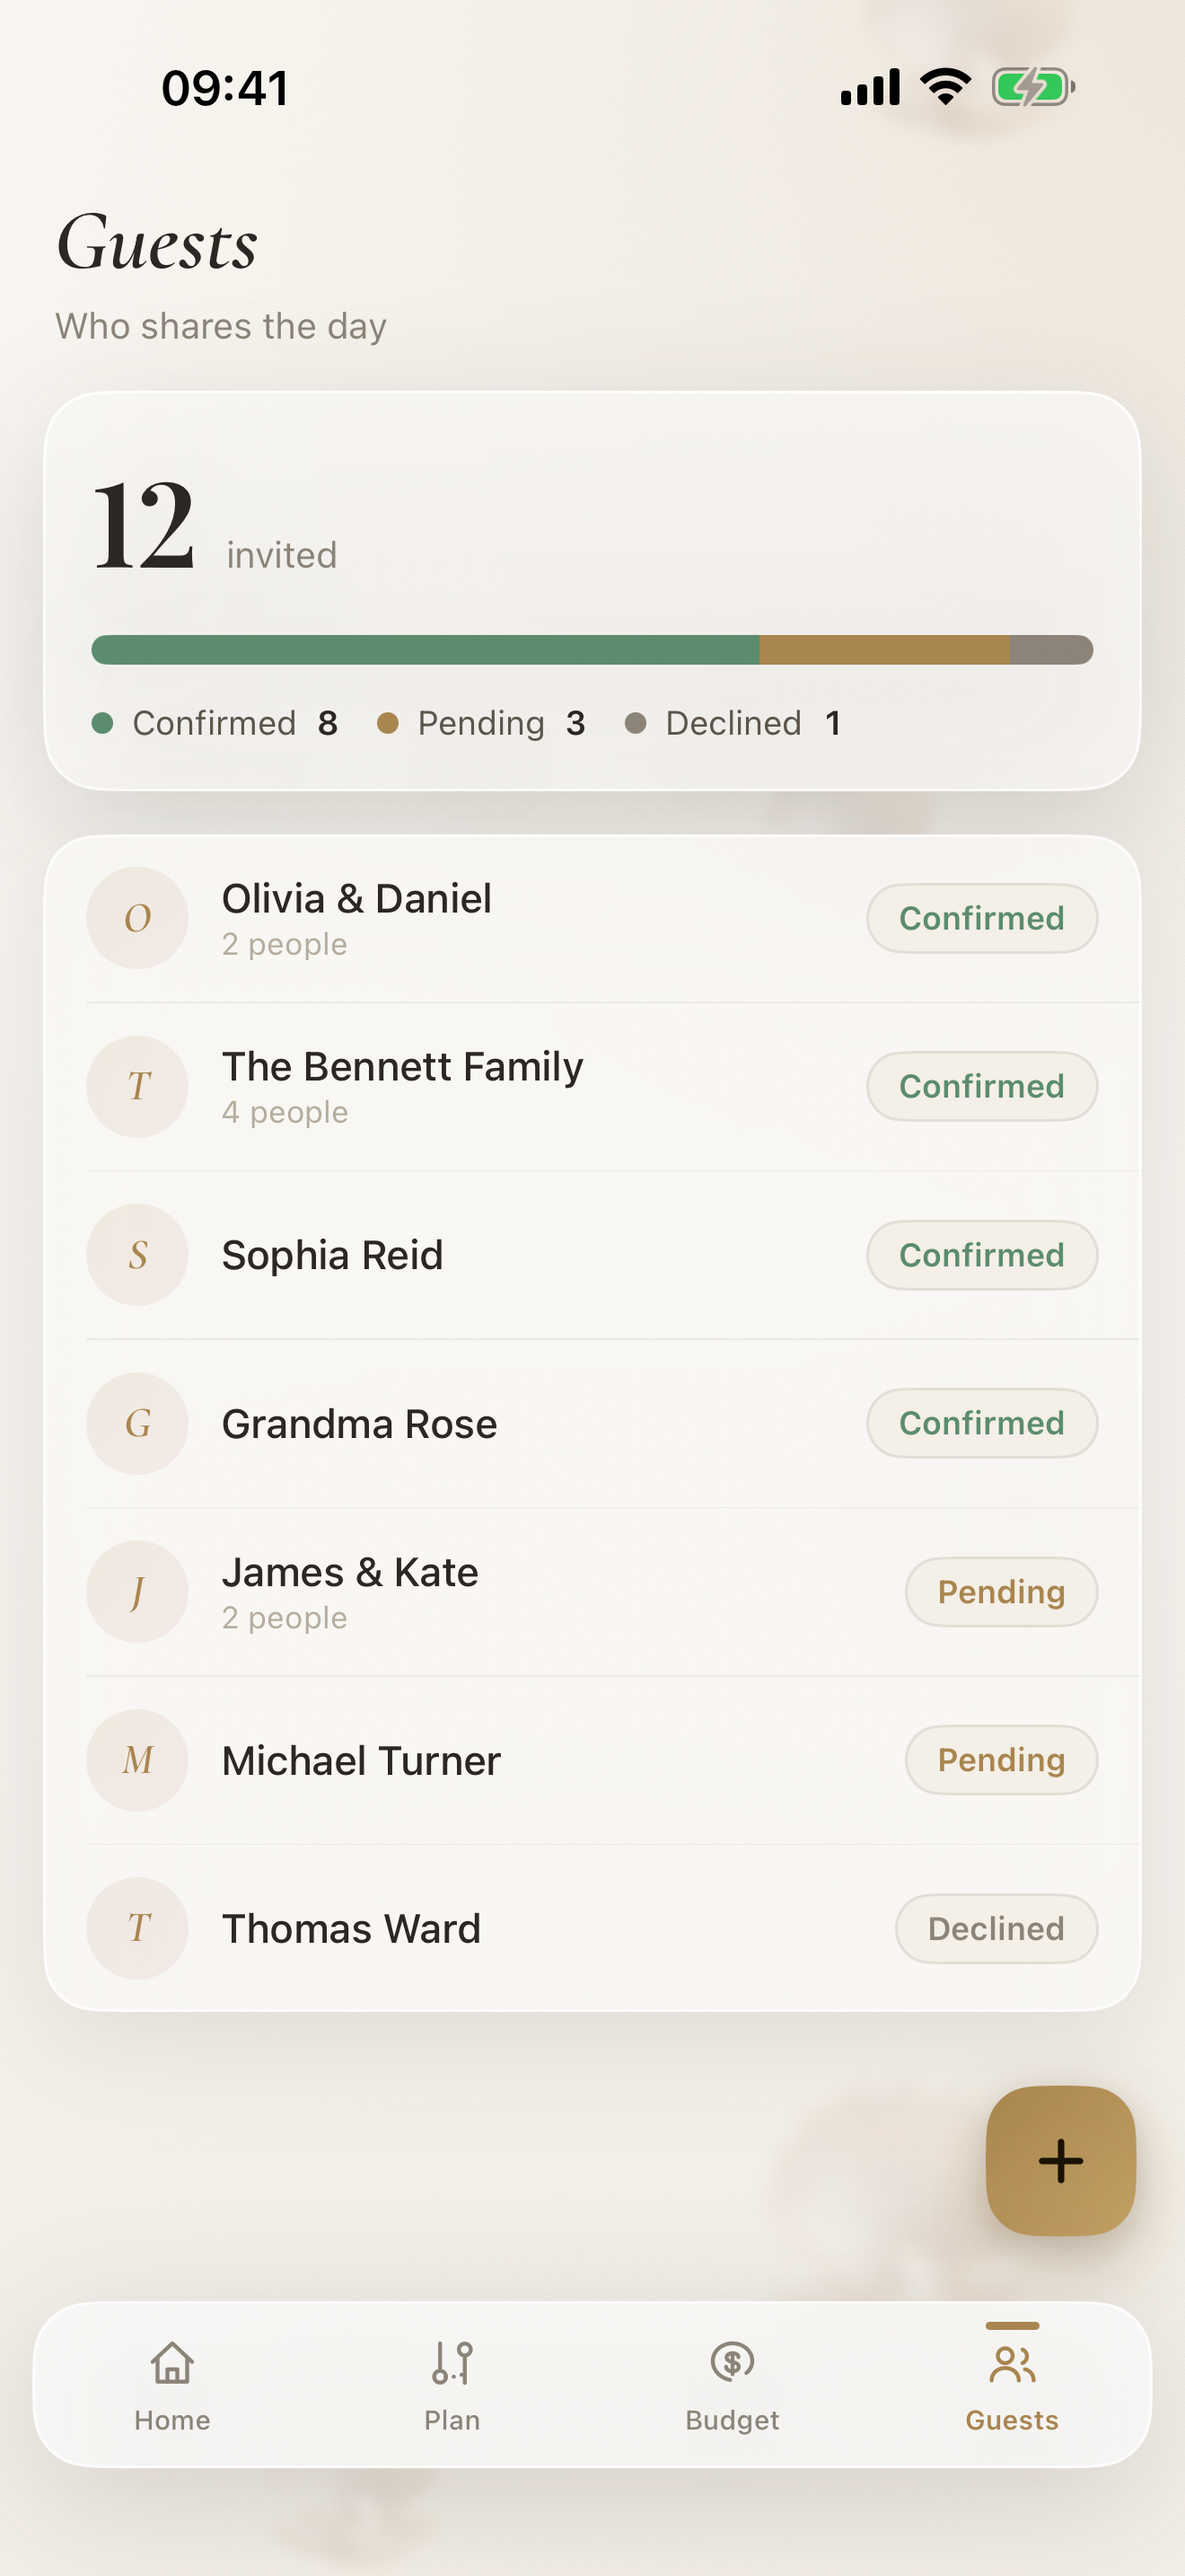
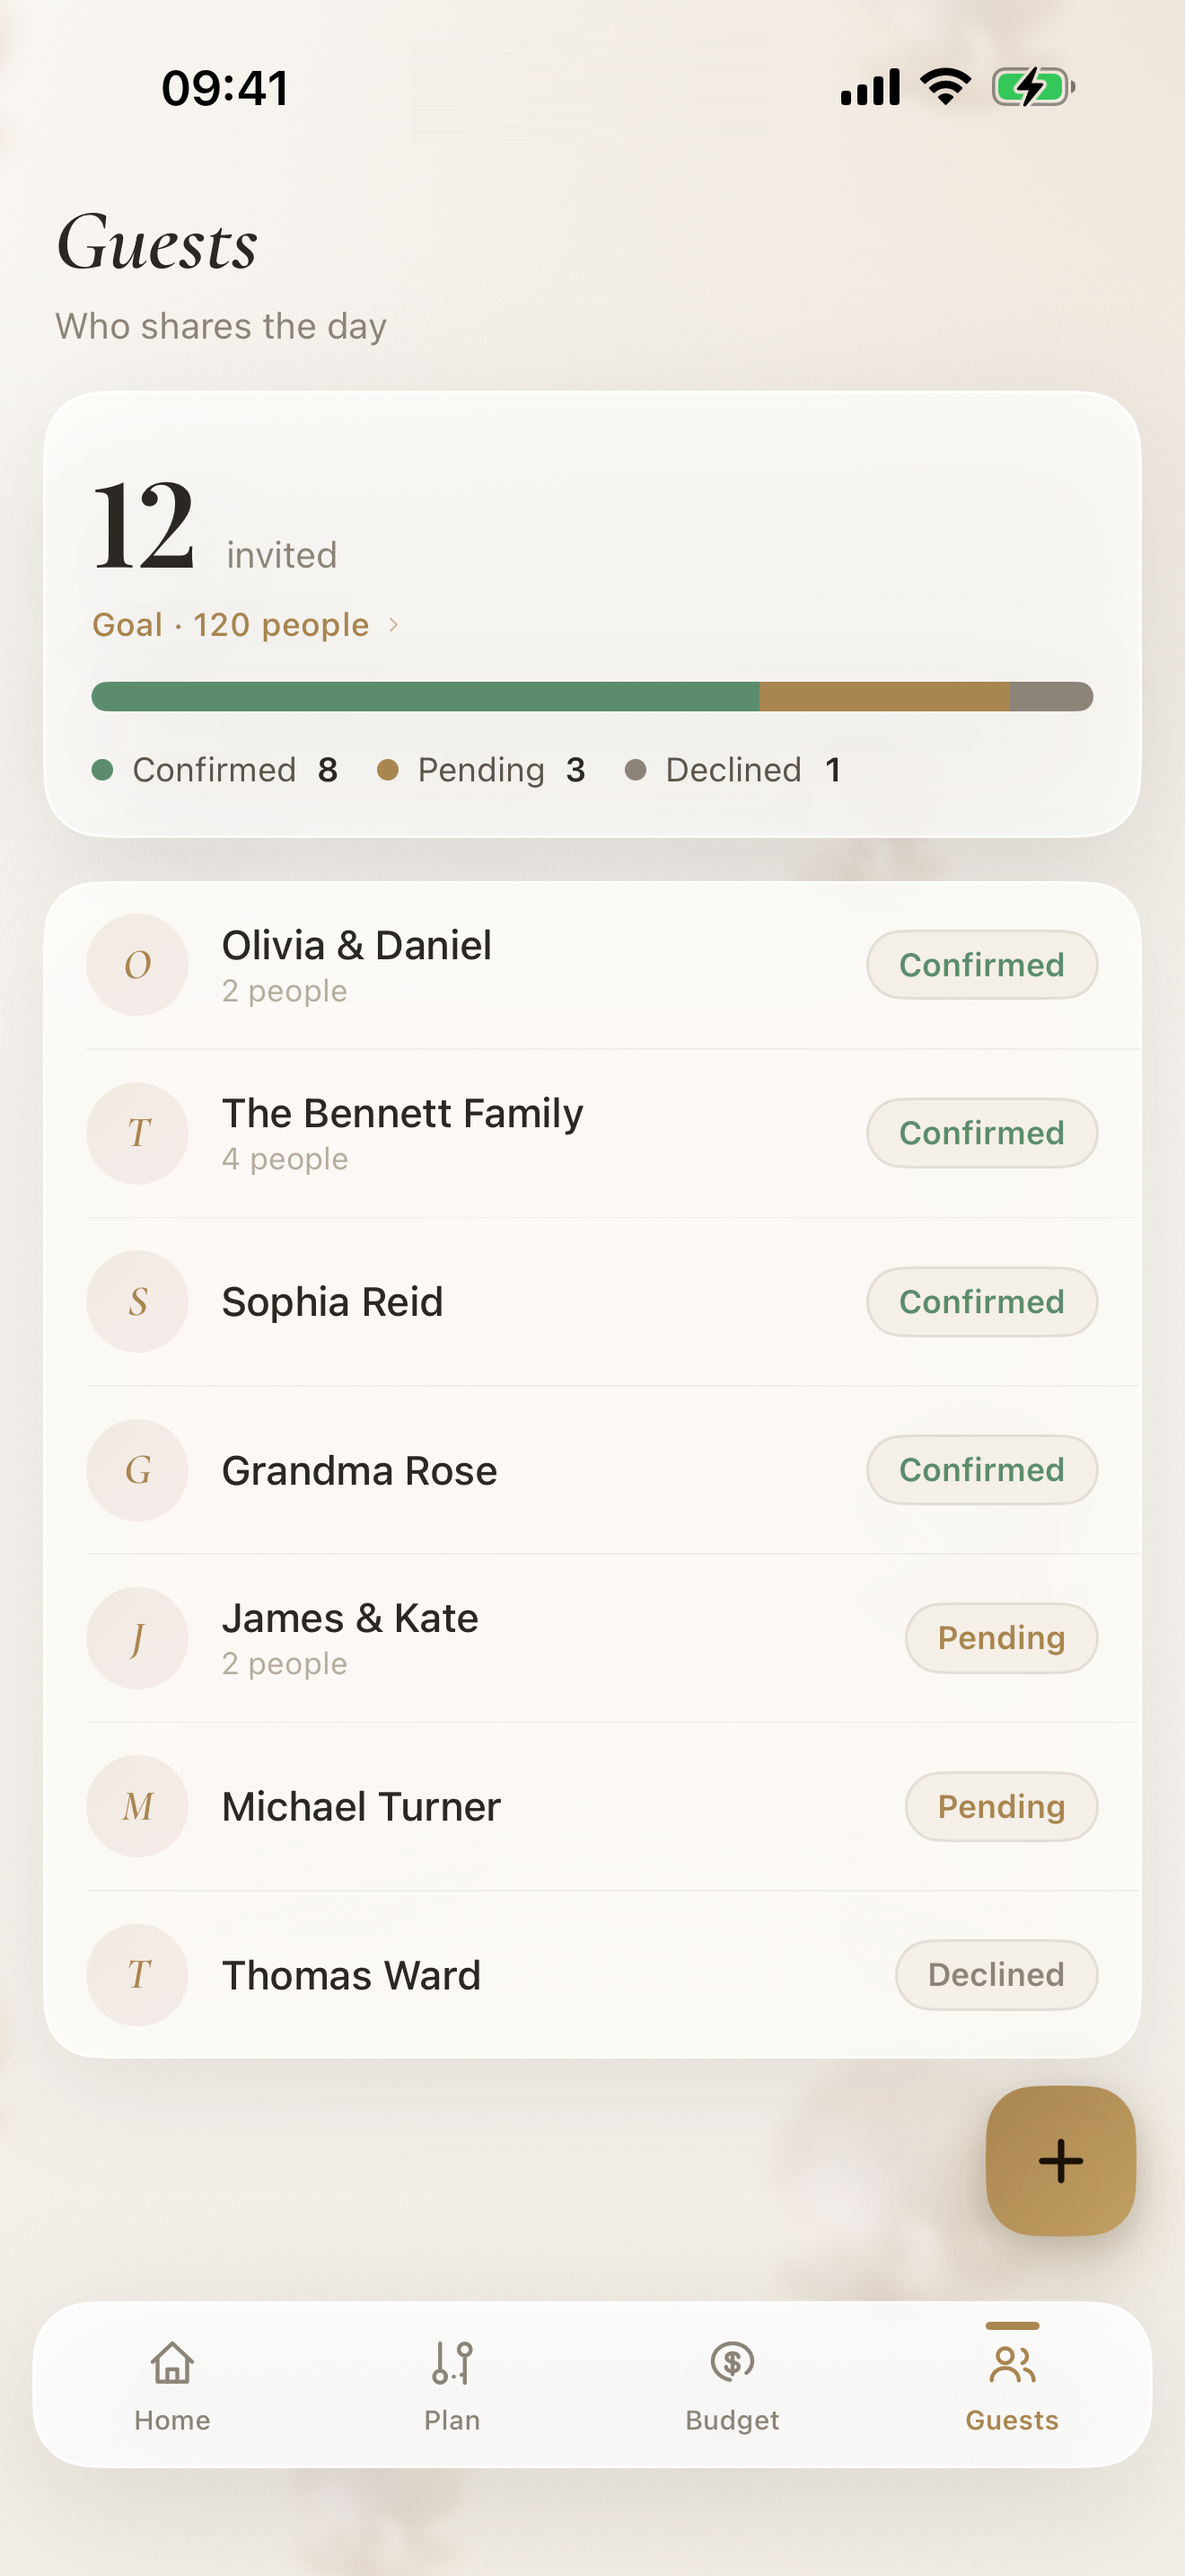
perlyna: fix screenshot cropping on iOS (natural ratio, no object-fit cover)

diff --git a/perlyna/index.html b/perlyna/index.html
@@ -73,8 +73,8 @@ nav{position:sticky;top:0;z-index:40;backdrop-filter:blur(16px);background:linea
 .badge .b2{font-size:21px;font-weight:600}
 
 /* phone */
-.phone{position:relative;justify-self:center;width:clamp(260px,32vw,340px);aspect-ratio:1320/2868;border-radius:14% / 6.5%;background:#fffdfa;padding:9px;box-shadow:var(--shadow);border:1px solid var(--hair)}
-.phone img{width:100%;height:100%;object-fit:cover;border-radius:11.5% / 5.4%;display:block}
+.phone{position:relative;justify-self:center;width:clamp(260px,32vw,340px);border-radius:14% / 6.5%;background:#fffdfa;padding:9px;box-shadow:var(--shadow);border:1px solid var(--hair)}
+.phone img{width:100%;height:auto;display:block;border-radius:11.5% / 5.4%}
 .phone.tilt{transform:rotate(2deg)}
 
 /* section */
